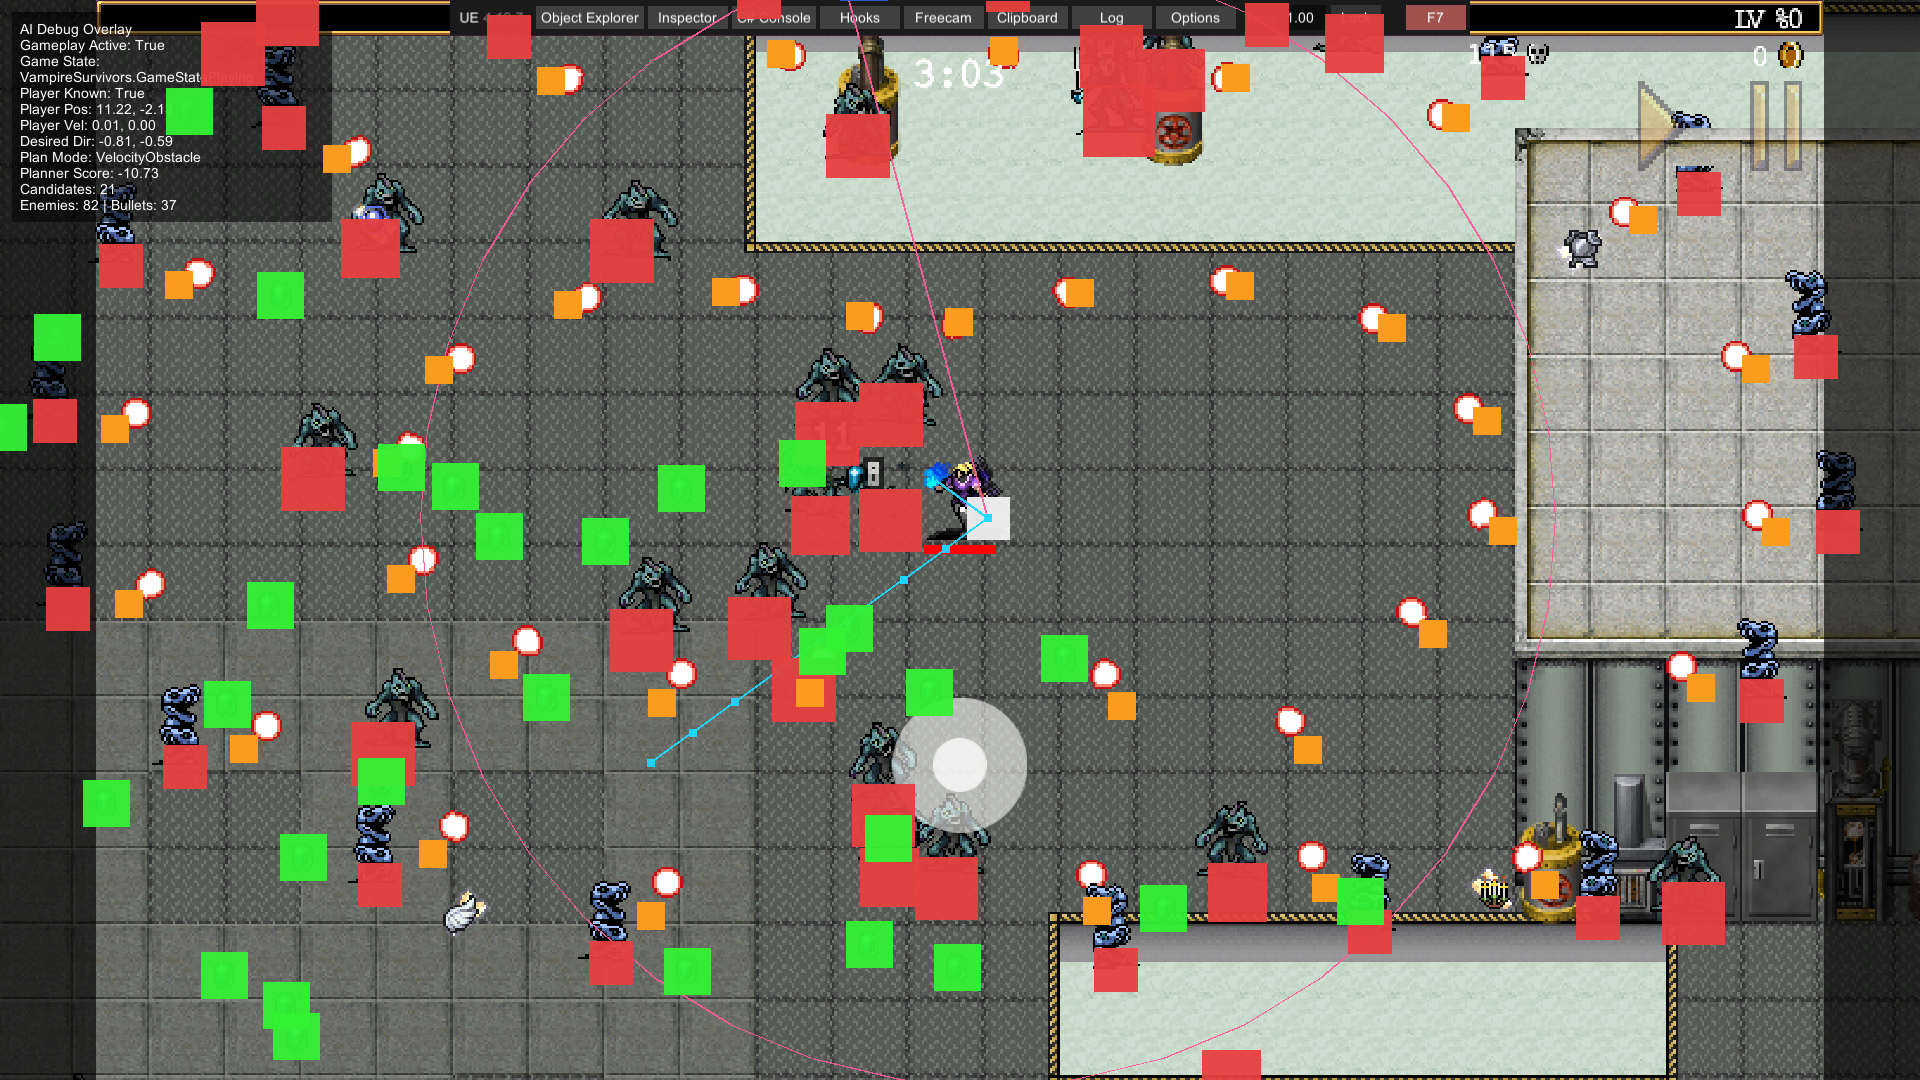
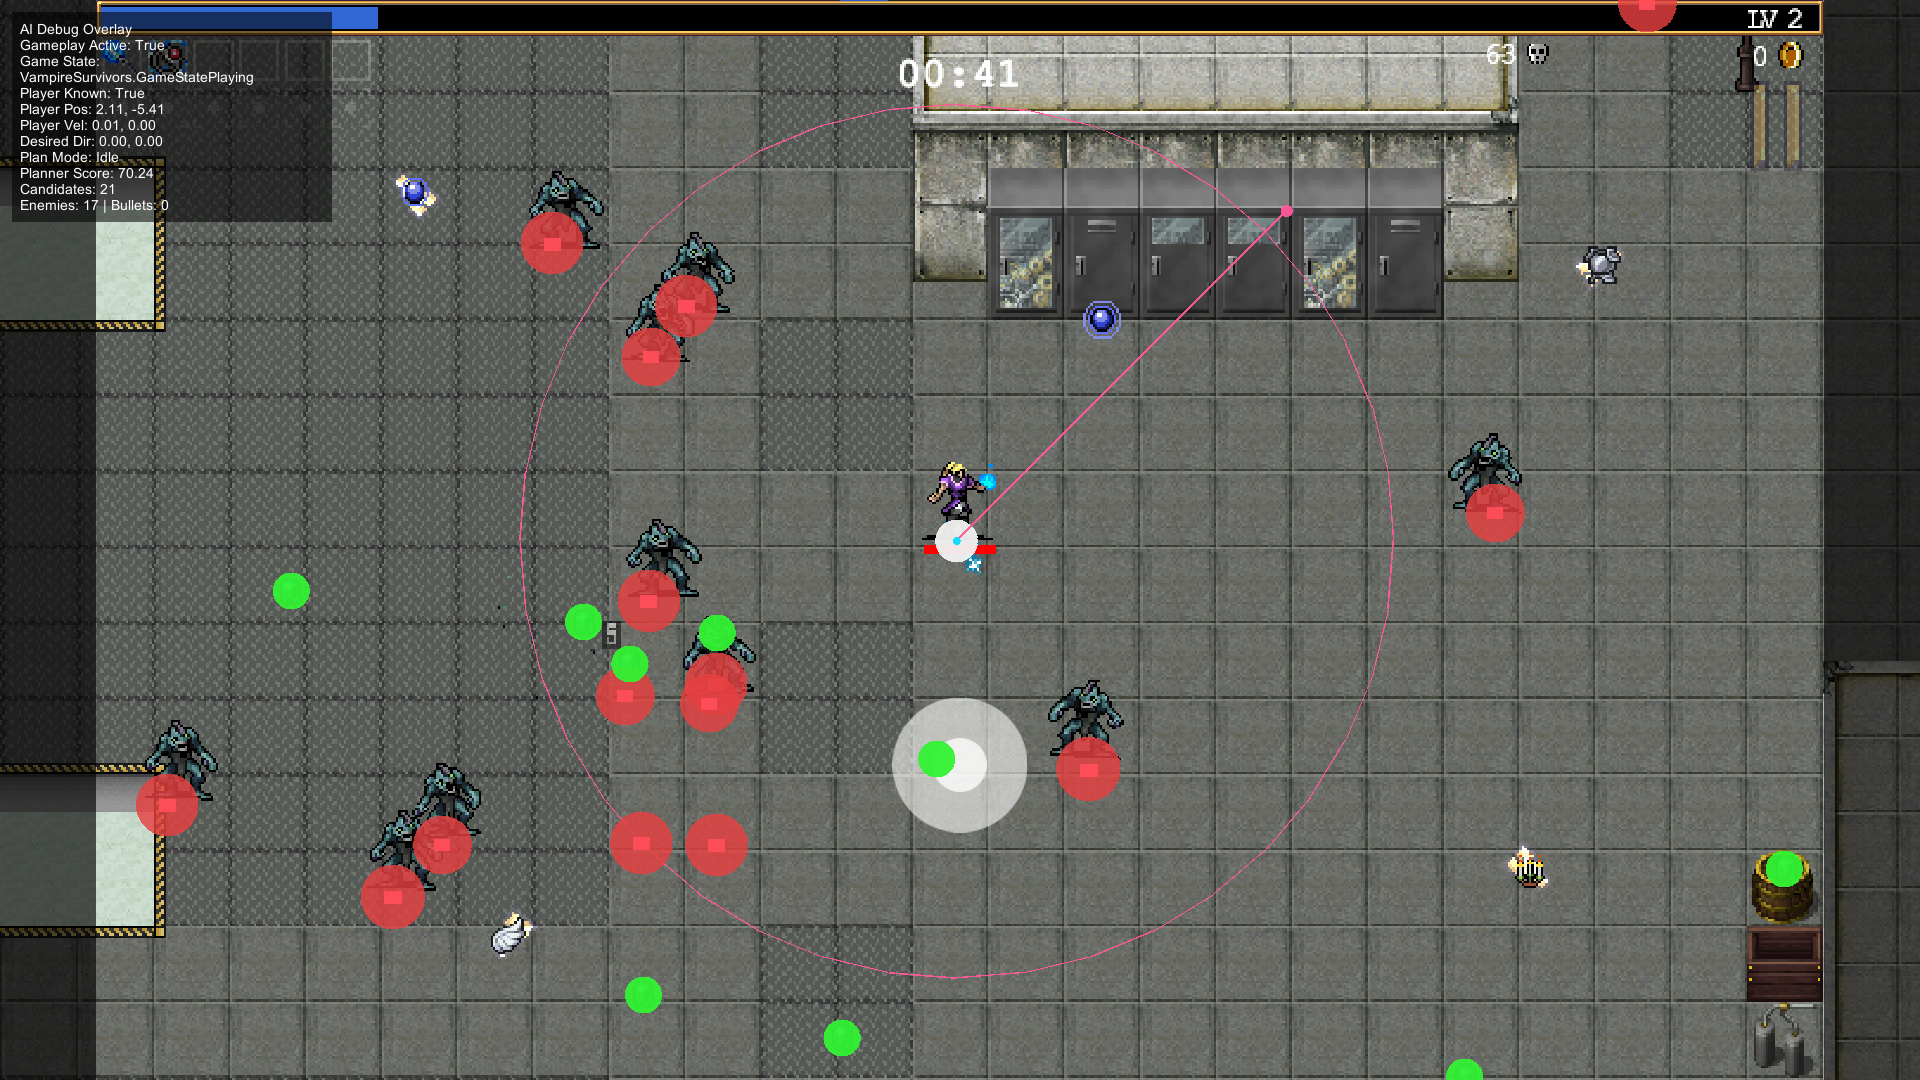
ill at least make it a little prettier

diff --git a/Runtime/AiDebugOverlay.cs b/Runtime/AiDebugOverlay.cs
@@ -16,11 +16,16 @@ namespace AI_Mod.Runtime
         private const float PanelMargin = 12f;
         private const float PanelBackgroundAlpha = 0.55f;
         private const float LineThickness = 2f;
+        private const float GemMarkerScale = 0.78f;
+        private const float EnemyCoreMinimumSize = 3f;
+        private const float EnemyCoreWidthFactor = 0.55f;
+        private const float EnemyCoreHeightFactor = 0.4f;
 
         private readonly Color _panelColor = new Color(0f, 0f, 0f, PanelBackgroundAlpha);
         private readonly Color _textColor = Color.white;
         private readonly Color _pathColor = new Color(0.1f, 0.85f, 1f, 0.95f);
-        private readonly Color _enemyColor = new Color(0.9f, 0.25f, 0.25f, 0.95f);
+        private readonly Color _enemyColor = new Color(0.9f, 0.25f, 0.25f, 0.82f);
+        private readonly Color _enemyCoreColor = new Color(1f, 0.3f, 0.35f, 0.95f);
         private readonly Color _bulletColor = new Color(1f, 0.65f, 0.1f, 0.9f);
         private readonly Color _gemColor = new Color(0.2f, 0.95f, 0.2f, 0.95f);
         private readonly Color _playerColor = new Color(0.95f, 0.95f, 0.95f, 0.95f);
@@ -204,6 +209,12 @@ namespace AI_Mod.Runtime
                 {
                     var radius = ResolveScreenRadius(obstacle.Position, obstacle.Radius, camera, renderRect, sourceSize, 4f, "OverlayEnemyRadiusFallback", "enemy marker");
                     DrawDisc(enemyScreen, radius, _enemyColor);
+
+                    var coreWidth = Mathf.Max(EnemyCoreMinimumSize, radius * EnemyCoreWidthFactor);
+                    var coreHeight = Mathf.Max(EnemyCoreMinimumSize * 0.6f, radius * EnemyCoreHeightFactor);
+                    coreWidth = Mathf.Min(coreWidth, Mathf.Max(EnemyCoreMinimumSize, radius * 0.9f));
+                    coreHeight = Mathf.Min(coreHeight, Mathf.Max(EnemyCoreMinimumSize * 0.6f, radius * 0.6f));
+                    DrawCenteredRect(enemyScreen, coreWidth, coreHeight, _enemyCoreColor);
                 }
             }
 
@@ -228,6 +239,7 @@ namespace AI_Mod.Runtime
                 if (TryWorldToGui(gem.Position, camera, renderRect, sourceSize, out var gemScreen))
                 {
                     var radius = ResolveScreenRadius(gem.Position, gem.Radius, camera, renderRect, sourceSize, 3f, "OverlayGemRadiusFallback", "gem marker");
+                    radius = Mathf.Max(1.5f, radius * GemMarkerScale);
                     DrawDisc(gemScreen, radius, _gemColor);
                 }
             }
@@ -283,13 +295,42 @@ namespace AI_Mod.Runtime
 
         private void DrawDisc(Vector2 center, float radius, Color color)
         {
-            if (_pixel == null)
+            if (_pixel == null || radius <= 0f)
             {
                 return;
             }
 
-            var size = radius * 2f;
-            var rect = new Rect(center.x - radius, center.y - radius, size, size);
+            var cachedColor = GUI.color;
+            GUI.color = color;
+
+            var ceilRadius = Mathf.CeilToInt(radius);
+            var radiusSquared = radius * radius;
+            for (var y = -ceilRadius; y <= ceilRadius; y++)
+            {
+                var offsetY = y + 0.5f;
+                var span = radiusSquared - offsetY * offsetY;
+                if (span < 0f)
+                {
+                    continue;
+                }
+
+                var halfWidth = Mathf.Sqrt(Mathf.Max(0f, span));
+                var width = Mathf.Max(1f, halfWidth * 2f);
+                var rect = new Rect(center.x - halfWidth, center.y + y - 0.5f, width, 1f);
+                GUI.DrawTexture(rect, _pixel);
+            }
+
+            GUI.color = cachedColor;
+        }
+
+        private void DrawCenteredRect(Vector2 center, float width, float height, Color color)
+        {
+            if (_pixel == null || width <= 0f || height <= 0f)
+            {
+                return;
+            }
+
+            var rect = new Rect(center.x - width * 0.5f, center.y - height * 0.5f, width, height);
             var cachedColor = GUI.color;
             GUI.color = color;
             GUI.DrawTexture(rect, _pixel);
